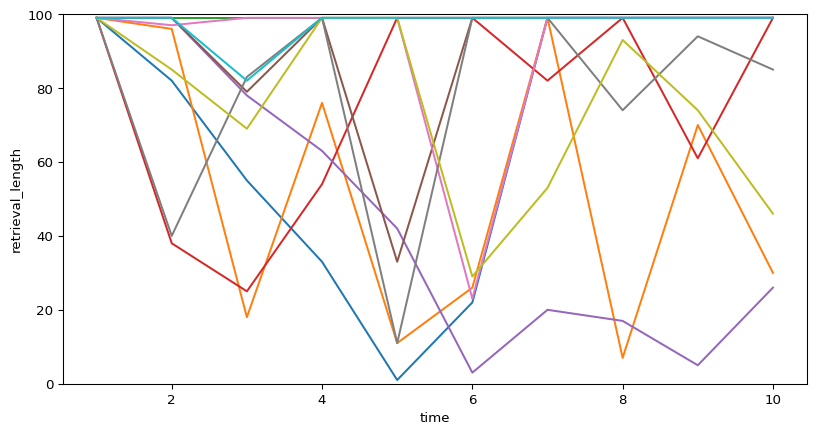
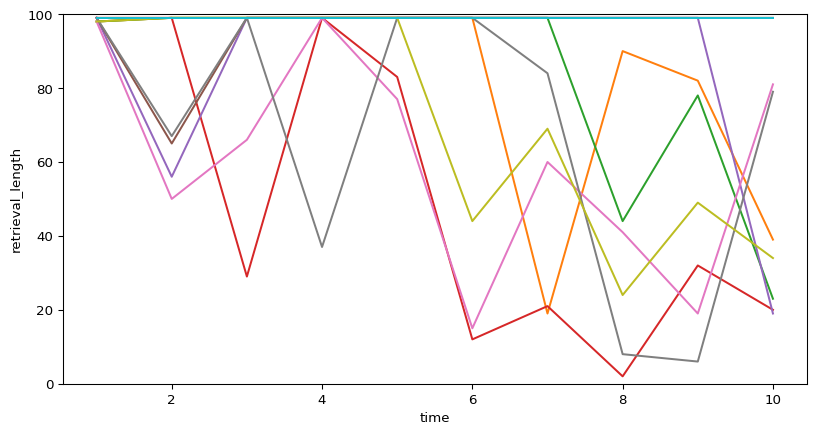
Built site for gh-pages

Changed region(s): [[0.0919, 0.03, 0.9498, 0.8687], [0.3983, 0.629, 0.4289, 0.6889], [0.2145, 0.5691, 0.2451, 0.5991]]

diff --git a/index.html b/index.html
@@ -252,11 +252,11 @@
 <section id="code" class="slide level2">
 <h2>Code</h2>
 <p>Building a large memory network requires a lot of data, since not only do you need activation values for each of the nodes but also edges between <em>each node and every other node</em>. For a memory network with 100 memories, that would already be <span class="math inline">\(\frac{100*99}{2}=4950\)</span> edges, and would scale exponentially with every additional node added.</p>
-<p>Because of this, I decided to use the rustworkx library, which is based on a common network analysis library called networkx but with better performance. This library has the capability to create and interact with graphs, and assign weights to nodes to edges.</p>
+<p>Because of this, I decided to use the rustworkx library, which is based on a common network analysis library called networkx but with better performance. This library has the capability to create and interact with graphs, and assign weights to nodes and edges.</p>
 </section>
 <section id="memory-class" class="slide level2">
 <h2>Memory Class</h2>
-<div id="e0f359ff" class="cell" data-execution_count="2">
+<div id="5488ac77" class="cell" data-execution_count="2">
 <div class="sourceCode cell-code" id="annotated-cell-1" data-code-line-numbers="|2-24|26-44|46-48"><pre class="sourceCode numberSource python code-annotation-code number-lines code-with-copy code-annotated"><code class="sourceCode python"><span id="annotated-cell-1-1"><a href="#annotated-cell-1-1"></a><span class="kw">class</span> Memory:</span>
 <span id="annotated-cell-1-2"><a href="#annotated-cell-1-2"></a>    <span class="kw">def</span> <span class="fu">__init__</span>(<span class="va">self</span>, n, groups, rewards, state<span class="op">=</span><span class="va">None</span>, thres<span class="op">=</span><span class="dv">0</span>, sigma<span class="op">=</span><span class="fl">0.1</span>):</span>
 <button class="code-annotation-anchor" data-target-cell="annotated-cell-1" data-target-annotation="2">2</button><span id="annotated-cell-1-3" class="code-annotation-target"><a href="#annotated-cell-1-3"></a>        group_size <span class="op">=</span> n <span class="op">//</span> groups</span>
@@ -373,7 +373,7 @@
 </section>
 <section id="agent-class" class="slide level2">
 <h2>Agent Class</h2>
-<div id="8d708f4f" class="cell" data-execution_count="3">
+<div id="35dc2b9f" class="cell" data-execution_count="3">
 <div class="sourceCode cell-code" id="annotated-cell-2" data-code-line-numbers="|2-5|16|17-21,24-30|22-23|19-20|28-29"><pre class="sourceCode numberSource python code-annotation-code number-lines code-with-copy code-annotated"><code class="sourceCode python"><span id="annotated-cell-2-1"><a href="#annotated-cell-2-1"></a><span class="kw">class</span> Agent:</span>
 <button class="code-annotation-anchor" data-target-cell="annotated-cell-2" data-target-annotation="1">1</button><span id="annotated-cell-2-2" class="code-annotation-target"><a href="#annotated-cell-2-2"></a>    <span class="kw">def</span> <span class="fu">__init__</span>(<span class="va">self</span>, alpha<span class="op">=</span><span class="fl">0.1</span>, gamma<span class="op">=</span><span class="fl">0.9</span>, temp<span class="op">=</span><span class="fl">0.1</span>):</span>
 <span id="annotated-cell-2-3"><a href="#annotated-cell-2-3"></a>        <span class="va">self</span>.alpha <span class="op">=</span> alpha</span>
@@ -422,7 +422,7 @@
 <section id="simulator" class="slide level2">
 <h2>Simulator</h2>
 <p>To run the agent in the envrionment multiple times, I have created a simulator class that defines methods for single and multiple retrievals.</p>
-<div id="9f060f4e" class="cell" data-execution_count="4">
+<div id="e6fd64b4" class="cell" data-execution_count="4">
 <div class="sourceCode cell-code" id="cb1"><pre class="sourceCode numberSource python number-lines code-with-copy"><code class="sourceCode python"><span id="cb1-1"><a href=""></a><span class="kw">class</span> Simulator:</span>
 <span id="cb1-2"><a href=""></a>    <span class="kw">def</span> <span class="fu">__init__</span>(<span class="va">self</span>, agent, network):</span>
 <span id="cb1-3"><a href=""></a>        <span class="va">self</span>.states_visited <span class="op">=</span> []</span>
@@ -462,7 +462,7 @@
 <section id="testing" class="slide level2">
 <h2>Testing</h2>
 <p>For this trial, I kept most of the default settings with a memory network that had one negative reward of -10 and the rest positive rewards of 1. Then, I ran the agent for 20 trials and displayed the number of memories retrieved for each trial.</p>
-<div id="b527fb38" class="cell" data-execution_count="5">
+<div id="951fbccc" class="cell" data-execution_count="5">
 <div class="sourceCode cell-code" id="cb2"><pre class="sourceCode numberSource python number-lines code-with-copy"><code class="sourceCode python"><span id="cb2-1"><a href=""></a>default_rewards <span class="op">=</span> {i: <span class="dv">1</span> <span class="cf">for</span> i <span class="kw">in</span> <span class="bu">range</span>(<span class="dv">100</span>)}</span>
 <span id="cb2-2"><a href=""></a>default_rewards[<span class="dv">0</span>] <span class="op">=</span> <span class="op">-</span><span class="dv">10</span></span>
 <span id="cb2-3"><a href=""></a>environment <span class="op">=</span> Memory(<span class="dv">100</span>, <span class="dv">20</span>, default_rewards)</span>
@@ -472,33 +472,33 @@
 <span id="cb2-7"><a href=""></a><span class="cf">for</span> trial <span class="kw">in</span> test.record:</span>
 <span id="cb2-8"><a href=""></a>    <span class="bu">print</span>(<span class="bu">len</span>(trial))</span></code><button title="Copy to Clipboard" class="code-copy-button"><i class="bi"></i></button></pre></div>
 <div class="cell-output cell-output-stdout">
-<pre><code>99
-99
+<pre><code>98
 89
+47
+40
+53
 99
 99
 99
 99
 99
 99
-10
-93
-87
-80
-90
-10
-68
-43
-14
-74
-40</code></pre>
+99
+99
+62
+99
+99
+99
+99
+99
+99</code></pre>
 </div>
 </div>
 </section>
 <section id="visualization" class="slide level2">
 <h2>Visualization</h2>
 <p>To help make the results easier to see, I ran ten simulations of 10 trials each and plotted the retrieval length for each trial on a line graph.</p>
-<div id="e4a6d8b7" class="cell" data-execution_count="7">
+<div id="8e77cde8" class="cell" data-execution_count="7">
 <details class="code-fold">
 <summary>Code</summary>
 <div class="sourceCode cell-code" id="cb4"><pre class="sourceCode numberSource python number-lines code-with-copy"><code class="sourceCode python"><span id="cb4-1"><a href=""></a>ys <span class="op">=</span> []</span>
@@ -526,7 +526,7 @@
 <section id="experiment-1-agent-parameters" class="slide level2">
 <h2>Experiment 1: Agent Parameters</h2>
 <p>As mentioned before, there are three parameters that I can control for the agent: <span class="math inline">\(alpha\)</span>, <span class="math inline">\(gamma\)</span>, and temperature. While keeping everything else constant, I varied these three parameters one by one and plotted the average and final retrieval lengths.</p>
-<div id="3216e5b6" class="cell" data-execution_count="8">
+<div id="fddf9d3f" class="cell" data-execution_count="8">
 <details class="code-fold">
 <summary>Code</summary>
 <div class="sourceCode cell-code" id="cb5"><pre class="sourceCode numberSource python number-lines code-with-copy"><code class="sourceCode python"><span id="cb5-1"><a href=""></a><span class="kw">def</span> exp_1(opt, params, n):</span>
@@ -576,7 +576,7 @@
 <section id="experiment-2-environment-parameters" class="slide level2">
 <h2>Experiment 2: Environment Parameters</h2>
 <p>Next, I kept the agent parameters at their default values while varying attributes of the memory network itself.</p>
-<div id="2e153d9f" class="cell" data-execution_count="9">
+<div id="b5e285b9" class="cell" data-execution_count="9">
 <details class="code-fold">
 <summary>Code</summary>
 <div class="sourceCode cell-code" id="cb6"><pre class="sourceCode numberSource python number-lines code-with-copy"><code class="sourceCode python"><span id="cb6-1"><a href=""></a><span class="kw">def</span> exp_2(n, groups, max_length, runs<span class="op">=</span><span class="dv">100</span>, time<span class="op">=</span><span class="fl">0.1</span>, rewards<span class="op">=</span><span class="va">None</span>):</span>
@@ -594,7 +594,7 @@
 </section>
 <section id="varying-time-between-retrievals" class="slide level2">
 <h2>Varying Time Between Retrievals</h2>
-<div id="f5db6716" class="cell" data-execution_count="10">
+<div id="c1132ba7" class="cell" data-execution_count="10">
 <details class="code-fold">
 <summary>Code</summary>
 <div class="sourceCode cell-code" id="cb7"><pre class="sourceCode numberSource python number-lines code-with-copy"><code class="sourceCode python"><span id="cb7-1"><a href=""></a>data <span class="op">=</span> []</span>
@@ -627,7 +627,7 @@
 <li>r3: 5 small (-10) negative rewards in the same group</li>
 <li>r4: 5 large (-100) negative rewards in the same group</li>
 </ul>
-<div id="4c408602" class="cell" data-execution_count="11">
+<div id="e8003c96" class="cell" data-execution_count="11">
 <details class="code-fold">
 <summary>Code</summary>
 <div class="sourceCode cell-code" id="cb8"><pre class="sourceCode numberSource python number-lines code-with-copy"><code class="sourceCode python"><span id="cb8-1"><a href=""></a>data <span class="op">=</span> []</span>
@@ -664,7 +664,7 @@
 </section>
 <section id="varying-number-of-nodes-while-keeping-groups-constant" class="slide level2">
 <h2>Varying Number of Nodes While Keeping Groups Constant</h2>
-<div id="a3d71ec6" class="cell" data-execution_count="12">
+<div id="925a9103" class="cell" data-execution_count="12">
 <details class="code-fold">
 <summary>Code</summary>
 <div class="sourceCode cell-code" id="cb9"><pre class="sourceCode numberSource python number-lines code-with-copy"><code class="sourceCode python"><span id="cb9-1"><a href=""></a>data <span class="op">=</span> []</span>
@@ -691,7 +691,7 @@
 </section>
 <section id="varying-number-of-nodes-and-groups" class="slide level2">
 <h2>Varying Number of Nodes and Groups</h2>
-<div id="80b5b581" class="cell" data-execution_count="13">
+<div id="5783acd7" class="cell" data-execution_count="13">
 <details class="code-fold">
 <summary>Code</summary>
 <div class="sourceCode cell-code" id="cb10"><pre class="sourceCode numberSource python number-lines code-with-copy"><code class="sourceCode python"><span id="cb10-1"><a href=""></a>data <span class="op">=</span> []</span>
@@ -715,6 +715,32 @@
 </div>
 </div>
 </div>
+</section></section>
+<section>
+<section id="next-steps" class="title-slide slide level1 center">
+<h1>Next Steps</h1>
+
+</section>
+<section id="comparison-with-old-model" class="slide level2">
+<h2>Comparison with Old Model</h2>
+<div class="quarto-figure quarto-figure-center">
+<figure>
+<p><img data-src="old_results.png"></p>
+<figcaption>results</figcaption>
+</figure>
+</div>
+<p>The previous iteration of this model did not have spreading activation or memory decay, only reinforcement learning. However, I did move the agent from a “trauma network” with one large negative memory, to a “non-trauma network” with no negative memories, and recorded how it behaved with varying the temperature parameter.</p>
+<ul>
+<li>Not sure if this manipulation is an accurate representation of context switching in an actual person’s brain, however.</li>
+</ul>
+</section>
+<section id="more-parameter-exploration" class="slide level2">
+<h2>More parameter exploration</h2>
+<p>Until now I’ve chosen some values (arbitrarily) as the default and varied parameters one at a time. However, it might also be interesting to vary parameters together with multiple independent variables. In addition, I need to confirm which parameters are most plausible.</p>
+</section>
+<section id="increasing-network-size" class="slide level2">
+<h2>Increasing Network Size</h2>
+<p>The most interesting results so far were with increasing the number of nodes. Given that an actual human’s brain contains much more than 100 pieces of autobiographical memory, I have to investigate further what is both a plausible and feasible number of nodes to model, and what the connectivity structure should look like. I would also like to increase the time scale to simulate memories truly being forgotten.</p>
 
 </section></section>
     </div>

diff --git a/ogm_model.html b/ogm_model.html
@@ -252,11 +252,11 @@
 <section id="code" class="slide level2">
 <h2>Code</h2>
 <p>Building a large memory network requires a lot of data, since not only do you need activation values for each of the nodes but also edges between <em>each node and every other node</em>. For a memory network with 100 memories, that would already be <span class="math inline">\(\frac{100*99}{2}=4950\)</span> edges, and would scale exponentially with every additional node added.</p>
-<p>Because of this, I decided to use the rustworkx library, which is based on a common network analysis library called networkx but with better performance. This library has the capability to create and interact with graphs, and assign weights to nodes to edges.</p>
+<p>Because of this, I decided to use the rustworkx library, which is based on a common network analysis library called networkx but with better performance. This library has the capability to create and interact with graphs, and assign weights to nodes and edges.</p>
 </section>
 <section id="memory-class" class="slide level2">
 <h2>Memory Class</h2>
-<div id="e0f359ff" class="cell" data-execution_count="2">
+<div id="5488ac77" class="cell" data-execution_count="2">
 <div class="sourceCode cell-code" id="annotated-cell-1" data-code-line-numbers="|2-24|26-44|46-48"><pre class="sourceCode numberSource python code-annotation-code number-lines code-with-copy code-annotated"><code class="sourceCode python"><span id="annotated-cell-1-1"><a href="#annotated-cell-1-1"></a><span class="kw">class</span> Memory:</span>
 <span id="annotated-cell-1-2"><a href="#annotated-cell-1-2"></a>    <span class="kw">def</span> <span class="fu">__init__</span>(<span class="va">self</span>, n, groups, rewards, state<span class="op">=</span><span class="va">None</span>, thres<span class="op">=</span><span class="dv">0</span>, sigma<span class="op">=</span><span class="fl">0.1</span>):</span>
 <button class="code-annotation-anchor" data-target-cell="annotated-cell-1" data-target-annotation="2">2</button><span id="annotated-cell-1-3" class="code-annotation-target"><a href="#annotated-cell-1-3"></a>        group_size <span class="op">=</span> n <span class="op">//</span> groups</span>
@@ -373,7 +373,7 @@
 </section>
 <section id="agent-class" class="slide level2">
 <h2>Agent Class</h2>
-<div id="8d708f4f" class="cell" data-execution_count="3">
+<div id="35dc2b9f" class="cell" data-execution_count="3">
 <div class="sourceCode cell-code" id="annotated-cell-2" data-code-line-numbers="|2-5|16|17-21,24-30|22-23|19-20|28-29"><pre class="sourceCode numberSource python code-annotation-code number-lines code-with-copy code-annotated"><code class="sourceCode python"><span id="annotated-cell-2-1"><a href="#annotated-cell-2-1"></a><span class="kw">class</span> Agent:</span>
 <button class="code-annotation-anchor" data-target-cell="annotated-cell-2" data-target-annotation="1">1</button><span id="annotated-cell-2-2" class="code-annotation-target"><a href="#annotated-cell-2-2"></a>    <span class="kw">def</span> <span class="fu">__init__</span>(<span class="va">self</span>, alpha<span class="op">=</span><span class="fl">0.1</span>, gamma<span class="op">=</span><span class="fl">0.9</span>, temp<span class="op">=</span><span class="fl">0.1</span>):</span>
 <span id="annotated-cell-2-3"><a href="#annotated-cell-2-3"></a>        <span class="va">self</span>.alpha <span class="op">=</span> alpha</span>
@@ -422,7 +422,7 @@
 <section id="simulator" class="slide level2">
 <h2>Simulator</h2>
 <p>To run the agent in the envrionment multiple times, I have created a simulator class that defines methods for single and multiple retrievals.</p>
-<div id="9f060f4e" class="cell" data-execution_count="4">
+<div id="e6fd64b4" class="cell" data-execution_count="4">
 <div class="sourceCode cell-code" id="cb1"><pre class="sourceCode numberSource python number-lines code-with-copy"><code class="sourceCode python"><span id="cb1-1"><a href=""></a><span class="kw">class</span> Simulator:</span>
 <span id="cb1-2"><a href=""></a>    <span class="kw">def</span> <span class="fu">__init__</span>(<span class="va">self</span>, agent, network):</span>
 <span id="cb1-3"><a href=""></a>        <span class="va">self</span>.states_visited <span class="op">=</span> []</span>
@@ -462,7 +462,7 @@
 <section id="testing" class="slide level2">
 <h2>Testing</h2>
 <p>For this trial, I kept most of the default settings with a memory network that had one negative reward of -10 and the rest positive rewards of 1. Then, I ran the agent for 20 trials and displayed the number of memories retrieved for each trial.</p>
-<div id="b527fb38" class="cell" data-execution_count="5">
+<div id="951fbccc" class="cell" data-execution_count="5">
 <div class="sourceCode cell-code" id="cb2"><pre class="sourceCode numberSource python number-lines code-with-copy"><code class="sourceCode python"><span id="cb2-1"><a href=""></a>default_rewards <span class="op">=</span> {i: <span class="dv">1</span> <span class="cf">for</span> i <span class="kw">in</span> <span class="bu">range</span>(<span class="dv">100</span>)}</span>
 <span id="cb2-2"><a href=""></a>default_rewards[<span class="dv">0</span>] <span class="op">=</span> <span class="op">-</span><span class="dv">10</span></span>
 <span id="cb2-3"><a href=""></a>environment <span class="op">=</span> Memory(<span class="dv">100</span>, <span class="dv">20</span>, default_rewards)</span>
@@ -472,33 +472,33 @@
 <span id="cb2-7"><a href=""></a><span class="cf">for</span> trial <span class="kw">in</span> test.record:</span>
 <span id="cb2-8"><a href=""></a>    <span class="bu">print</span>(<span class="bu">len</span>(trial))</span></code><button title="Copy to Clipboard" class="code-copy-button"><i class="bi"></i></button></pre></div>
 <div class="cell-output cell-output-stdout">
-<pre><code>99
-99
+<pre><code>98
 89
+47
+40
+53
 99
 99
 99
 99
 99
 99
-10
-93
-87
-80
-90
-10
-68
-43
-14
-74
-40</code></pre>
+99
+99
+62
+99
+99
+99
+99
+99
+99</code></pre>
 </div>
 </div>
 </section>
 <section id="visualization" class="slide level2">
 <h2>Visualization</h2>
 <p>To help make the results easier to see, I ran ten simulations of 10 trials each and plotted the retrieval length for each trial on a line graph.</p>
-<div id="e4a6d8b7" class="cell" data-execution_count="7">
+<div id="8e77cde8" class="cell" data-execution_count="7">
 <details class="code-fold">
 <summary>Code</summary>
 <div class="sourceCode cell-code" id="cb4"><pre class="sourceCode numberSource python number-lines code-with-copy"><code class="sourceCode python"><span id="cb4-1"><a href=""></a>ys <span class="op">=</span> []</span>
@@ -526,7 +526,7 @@
 <section id="experiment-1-agent-parameters" class="slide level2">
 <h2>Experiment 1: Agent Parameters</h2>
 <p>As mentioned before, there are three parameters that I can control for the agent: <span class="math inline">\(alpha\)</span>, <span class="math inline">\(gamma\)</span>, and temperature. While keeping everything else constant, I varied these three parameters one by one and plotted the average and final retrieval lengths.</p>
-<div id="3216e5b6" class="cell" data-execution_count="8">
+<div id="fddf9d3f" class="cell" data-execution_count="8">
 <details class="code-fold">
 <summary>Code</summary>
 <div class="sourceCode cell-code" id="cb5"><pre class="sourceCode numberSource python number-lines code-with-copy"><code class="sourceCode python"><span id="cb5-1"><a href=""></a><span class="kw">def</span> exp_1(opt, params, n):</span>
@@ -576,7 +576,7 @@
 <section id="experiment-2-environment-parameters" class="slide level2">
 <h2>Experiment 2: Environment Parameters</h2>
 <p>Next, I kept the agent parameters at their default values while varying attributes of the memory network itself.</p>
-<div id="2e153d9f" class="cell" data-execution_count="9">
+<div id="b5e285b9" class="cell" data-execution_count="9">
 <details class="code-fold">
 <summary>Code</summary>
 <div class="sourceCode cell-code" id="cb6"><pre class="sourceCode numberSource python number-lines code-with-copy"><code class="sourceCode python"><span id="cb6-1"><a href=""></a><span class="kw">def</span> exp_2(n, groups, max_length, runs<span class="op">=</span><span class="dv">100</span>, time<span class="op">=</span><span class="fl">0.1</span>, rewards<span class="op">=</span><span class="va">None</span>):</span>
@@ -594,7 +594,7 @@
 </section>
 <section id="varying-time-between-retrievals" class="slide level2">
 <h2>Varying Time Between Retrievals</h2>
-<div id="f5db6716" class="cell" data-execution_count="10">
+<div id="c1132ba7" class="cell" data-execution_count="10">
 <details class="code-fold">
 <summary>Code</summary>
 <div class="sourceCode cell-code" id="cb7"><pre class="sourceCode numberSource python number-lines code-with-copy"><code class="sourceCode python"><span id="cb7-1"><a href=""></a>data <span class="op">=</span> []</span>
@@ -627,7 +627,7 @@
 <li>r3: 5 small (-10) negative rewards in the same group</li>
 <li>r4: 5 large (-100) negative rewards in the same group</li>
 </ul>
-<div id="4c408602" class="cell" data-execution_count="11">
+<div id="e8003c96" class="cell" data-execution_count="11">
 <details class="code-fold">
 <summary>Code</summary>
 <div class="sourceCode cell-code" id="cb8"><pre class="sourceCode numberSource python number-lines code-with-copy"><code class="sourceCode python"><span id="cb8-1"><a href=""></a>data <span class="op">=</span> []</span>
@@ -664,7 +664,7 @@
 </section>
 <section id="varying-number-of-nodes-while-keeping-groups-constant" class="slide level2">
 <h2>Varying Number of Nodes While Keeping Groups Constant</h2>
-<div id="a3d71ec6" class="cell" data-execution_count="12">
+<div id="925a9103" class="cell" data-execution_count="12">
 <details class="code-fold">
 <summary>Code</summary>
 <div class="sourceCode cell-code" id="cb9"><pre class="sourceCode numberSource python number-lines code-with-copy"><code class="sourceCode python"><span id="cb9-1"><a href=""></a>data <span class="op">=</span> []</span>
@@ -691,7 +691,7 @@
 </section>
 <section id="varying-number-of-nodes-and-groups" class="slide level2">
 <h2>Varying Number of Nodes and Groups</h2>
-<div id="80b5b581" class="cell" data-execution_count="13">
+<div id="5783acd7" class="cell" data-execution_count="13">
 <details class="code-fold">
 <summary>Code</summary>
 <div class="sourceCode cell-code" id="cb10"><pre class="sourceCode numberSource python number-lines code-with-copy"><code class="sourceCode python"><span id="cb10-1"><a href=""></a>data <span class="op">=</span> []</span>
@@ -715,6 +715,32 @@
 </div>
 </div>
 </div>
+</section></section>
+<section>
+<section id="next-steps" class="title-slide slide level1 center">
+<h1>Next Steps</h1>
+
+</section>
+<section id="comparison-with-old-model" class="slide level2">
+<h2>Comparison with Old Model</h2>
+<div class="quarto-figure quarto-figure-center">
+<figure>
+<p><img data-src="old_results.png"></p>
+<figcaption>results</figcaption>
+</figure>
+</div>
+<p>The previous iteration of this model did not have spreading activation or memory decay, only reinforcement learning. However, I did move the agent from a “trauma network” with one large negative memory, to a “non-trauma network” with no negative memories, and recorded how it behaved with varying the temperature parameter.</p>
+<ul>
+<li>Not sure if this manipulation is an accurate representation of context switching in an actual person’s brain, however.</li>
+</ul>
+</section>
+<section id="more-parameter-exploration" class="slide level2">
+<h2>More parameter exploration</h2>
+<p>Until now I’ve chosen some values (arbitrarily) as the default and varied parameters one at a time. However, it might also be interesting to vary parameters together with multiple independent variables. In addition, I need to confirm which parameters are most plausible.</p>
+</section>
+<section id="increasing-network-size" class="slide level2">
+<h2>Increasing Network Size</h2>
+<p>The most interesting results so far were with increasing the number of nodes. Given that an actual human’s brain contains much more than 100 pieces of autobiographical memory, I have to investigate further what is both a plausible and feasible number of nodes to model, and what the connectivity structure should look like. I would also like to increase the time scale to simulate memories truly being forgotten.</p>
 
 </section></section>
     </div>
